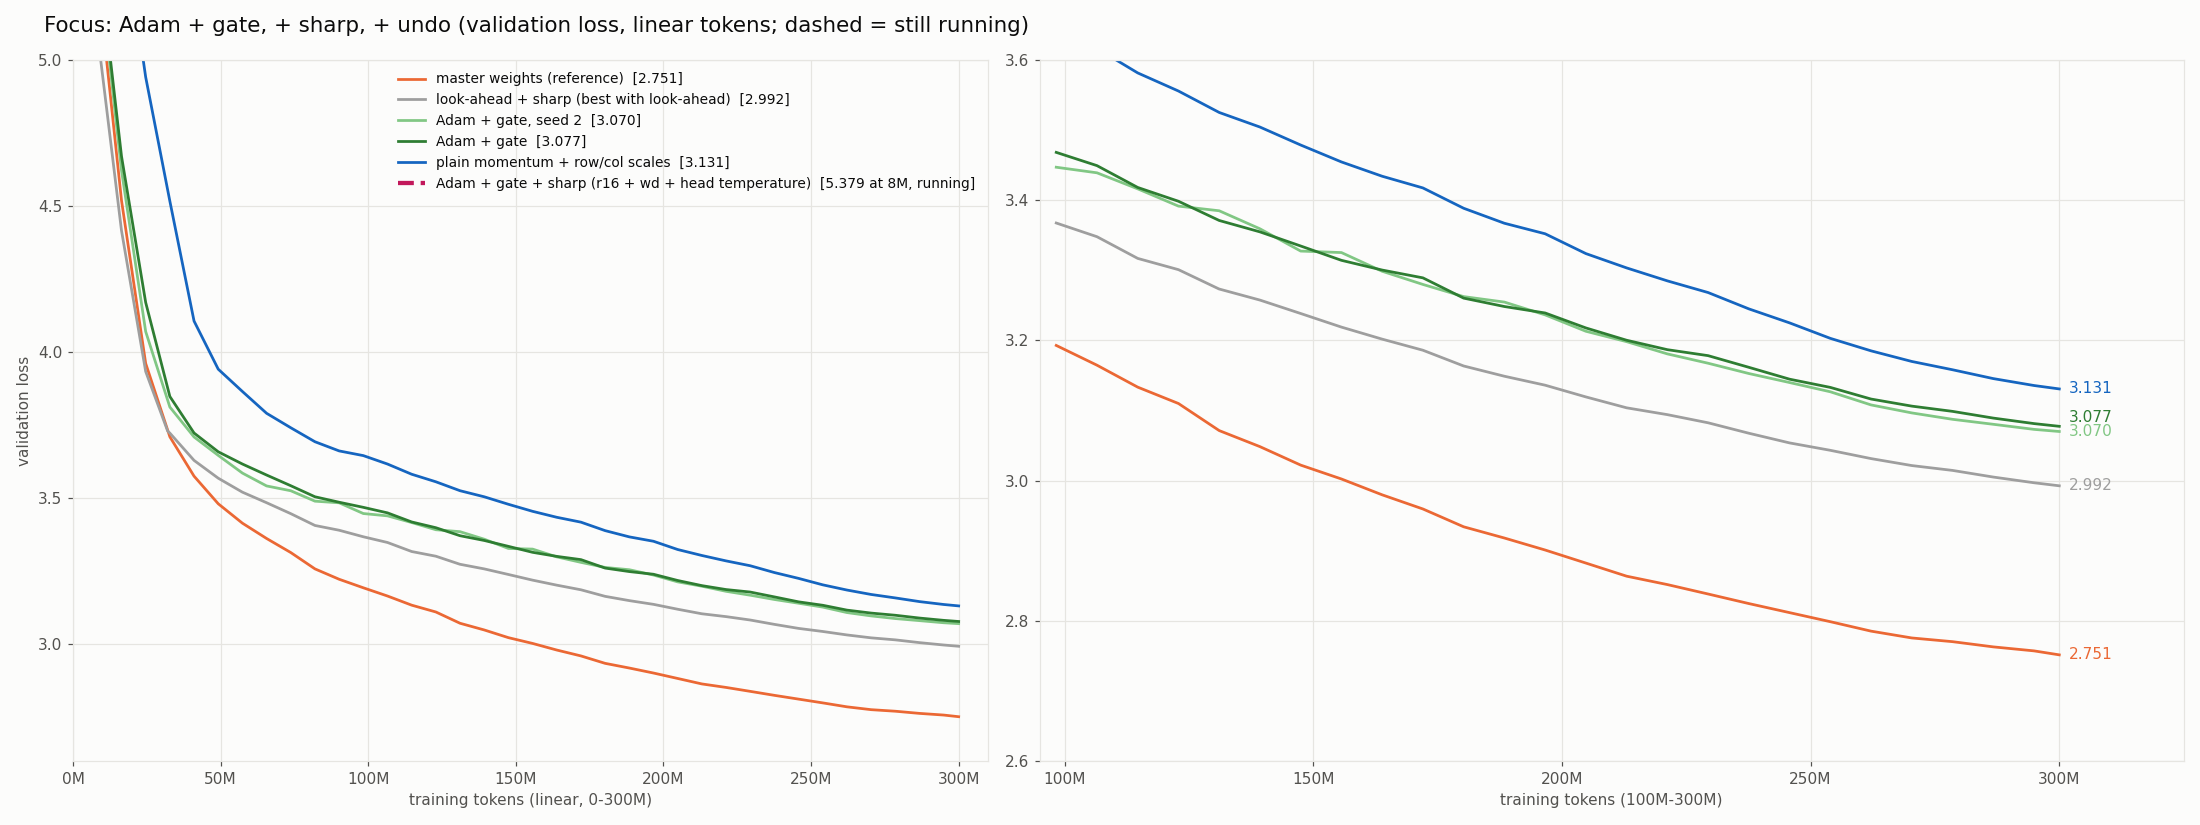
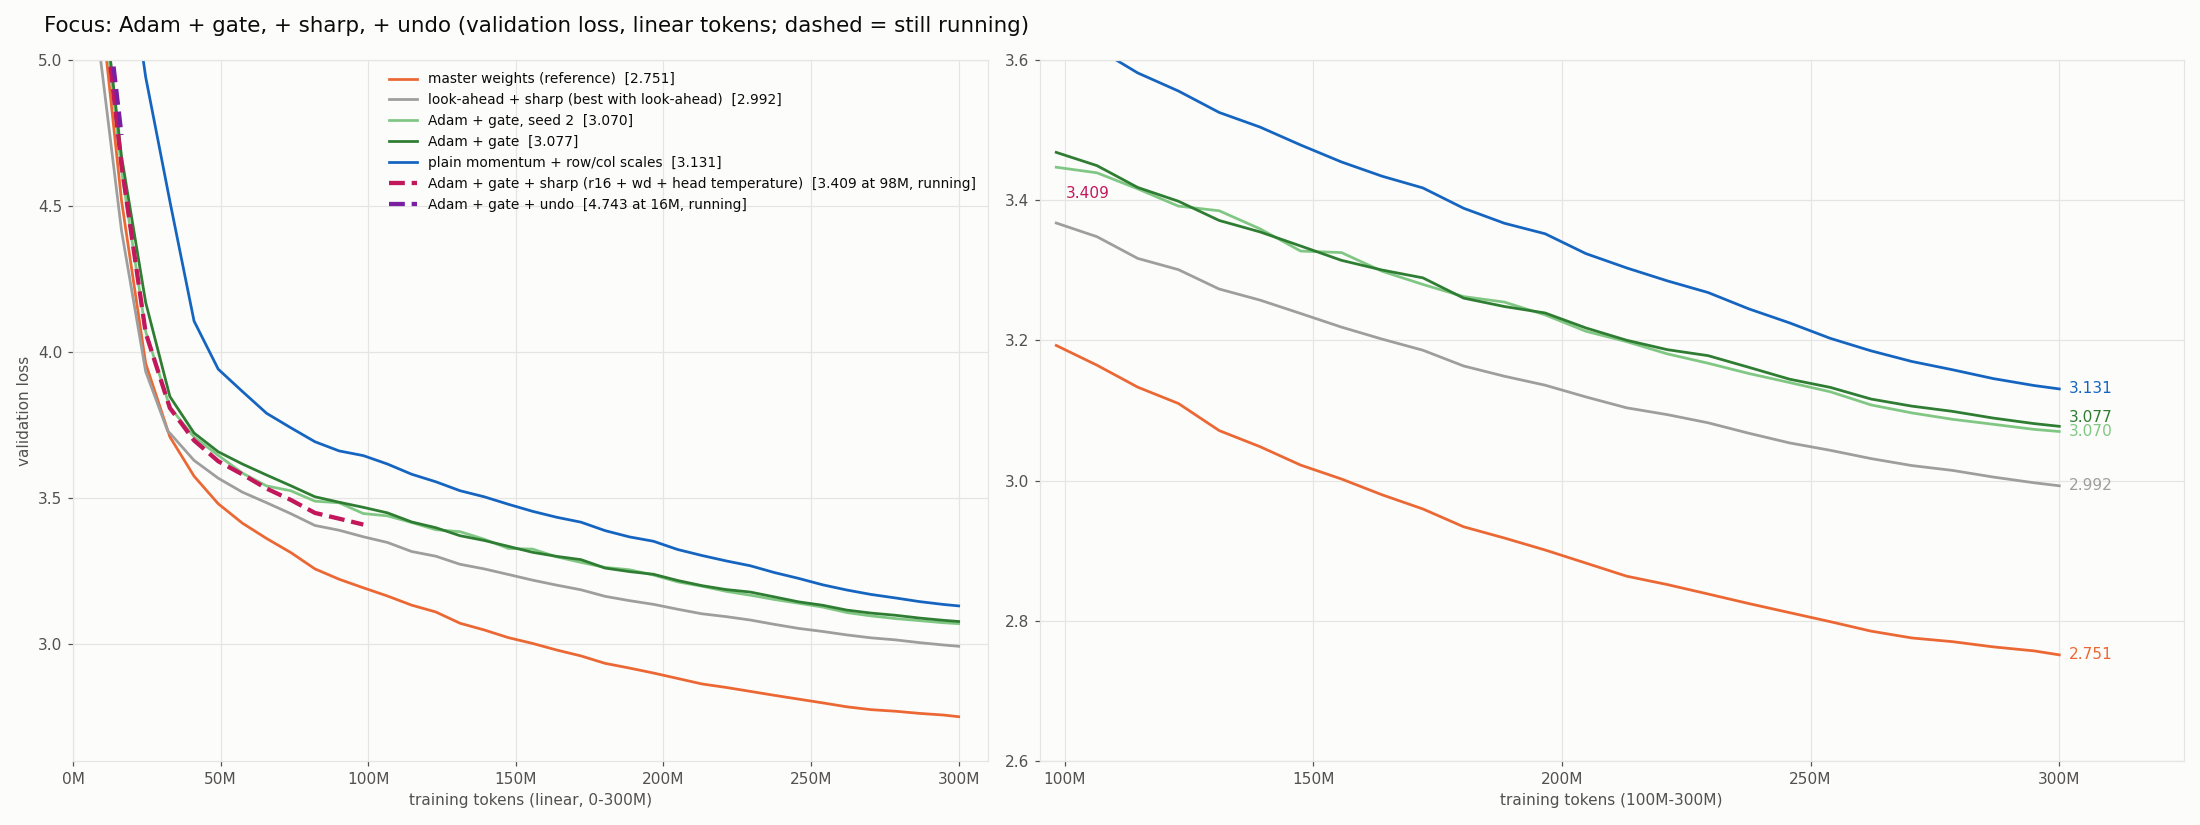
Figure: Adam + gate + sharp against Adam + gate, look-ahead + sharp, master

Changed region(s): [[0.1855, 0.0909, 0.4327, 0.2727], [0.1236, 0.6061, 0.1545, 0.6364]]

diff --git a/scripts/plots/plot_sharp.py b/scripts/plots/plot_sharp.py
@@ -1,0 +1,51 @@
+"""Adam + gate + sharp against its references. Left: validation loss up to where sharp is now (plus a margin);
+right: loss difference to Adam + gate at each validation step (below zero = sharp ahead).
+
+  python -m scripts.plots.plot_sharp      -> docs/figures/sharp_run.png
+"""
+import numpy as np
+import matplotlib
+matplotlib.use("Agg")
+import matplotlib.pyplot as plt
+from scripts.plots.plot_focus import load, SURFACE, INK, INK2, GRID  # noqa: E402  (also redraws focus_runs.png)
+
+RUNS = [("master_tracked", "master weights", "#eb6834"),
+        ("magadd16_wd_qk_lab", "look-ahead + sharp", "#9e9e9e"),
+        ("gatevnorm_rc_s0", "Adam + gate", "#2e7d32"),
+        ("gatevnorm_rc_s0_seed2", "Adam + gate, seed 2", "#81c784"),
+        ("gvsharp_rc_s0", "Adam + gate + sharp", "#c2185b")]
+R = {d: load(d) for d, _, _ in RUNS}
+ts, vs, _ = R["gvsharp_rc_s0"]
+tmax = ts[-1] * 1.15
+fig, (a, b) = plt.subplots(1, 2, figsize=(18, 7), facecolor=SURFACE)
+for ax in (a, b):
+    ax.set_facecolor(SURFACE); ax.grid(True, color=GRID, lw=0.8)
+    for sp in ax.spines.values(): sp.set_color(GRID)
+    ax.tick_params(colors=INK2)
+    ax.xaxis.set_major_formatter(matplotlib.ticker.FuncFormatter(lambda x, _: f"{x / 1e6:.0f}M"))
+tg, vg, _ = R["gatevnorm_rc_s0"]
+for d, lab, c in RUNS:
+    if R[d] is None: continue
+    t, v, _ = R[d]; m = t <= tmax
+    lw = 2.8 if d == "gvsharp_rc_s0" else 1.8
+    a.plot(t[m], v[m], color=c, lw=lw, label=f"{lab}  [{np.interp(ts[-1], t, v):.3f} at {ts[-1] / 1e6:.0f}M]")
+    if d != "gatevnorm_rc_s0":
+        mm = t <= ts[-1]
+        b.plot(t[mm], v[mm] - np.interp(t[mm], tg, vg), color=c, lw=lw, marker="o" if d == "gvsharp_rc_s0" else None,
+               ms=3.5, label=lab)
+a.set_xlim(0, tmax); a.set_ylim(3.0, 4.6)
+a.set_xlabel("training tokens", color=INK2); a.set_ylabel("validation loss", color=INK2)
+a.legend(loc="upper right", fontsize=10, frameon=False, labelcolor=INK)
+a.set_title("validation loss (sharp still running)", color=INK, fontsize=11, loc="left")
+b.axhline(0, color="#2e7d32", lw=1.4, ls="--")
+b.set_xlim(0, ts[-1] * 1.03); b.set_ylim(-0.35, 0.1)
+b.set_xlabel("training tokens", color=INK2); b.set_ylabel("loss minus Adam + gate (below 0 = better)", color=INK2)
+b.annotate(f"{vs[-1] - np.interp(ts[-1], tg, vg):+.3f}", (ts[-1], vs[-1] - np.interp(ts[-1], tg, vg)), xytext=(6, -10),
+           textcoords="offset points", color="#c2185b", fontsize=11)
+b.legend(loc="lower left", fontsize=10, frameon=False, labelcolor=INK)
+b.set_title("gap to Adam + gate at each validation step", color=INK, fontsize=11, loc="left")
+fig.suptitle("Adam + gate + sharp (additive r16 + adapter weight decay + per-head temperature), no look-ahead",
+             color=INK, fontsize=14, x=0.01, ha="left")
+fig.tight_layout()
+fig.savefig("docs/figures/sharp_run.png", dpi=110, facecolor=SURFACE)
+print("wrote docs/figures/sharp_run.png")
